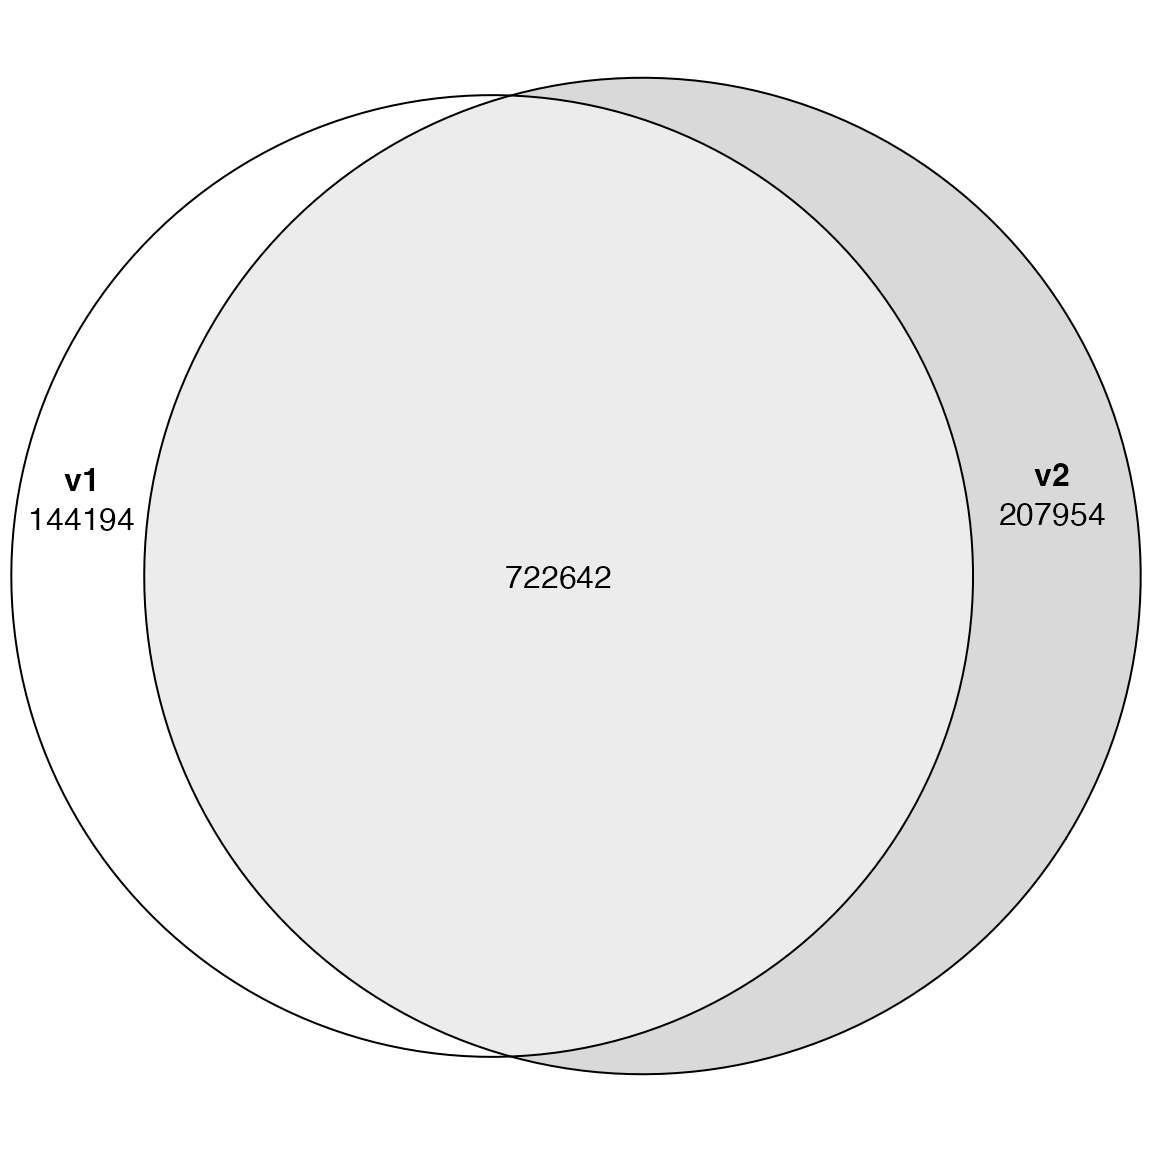
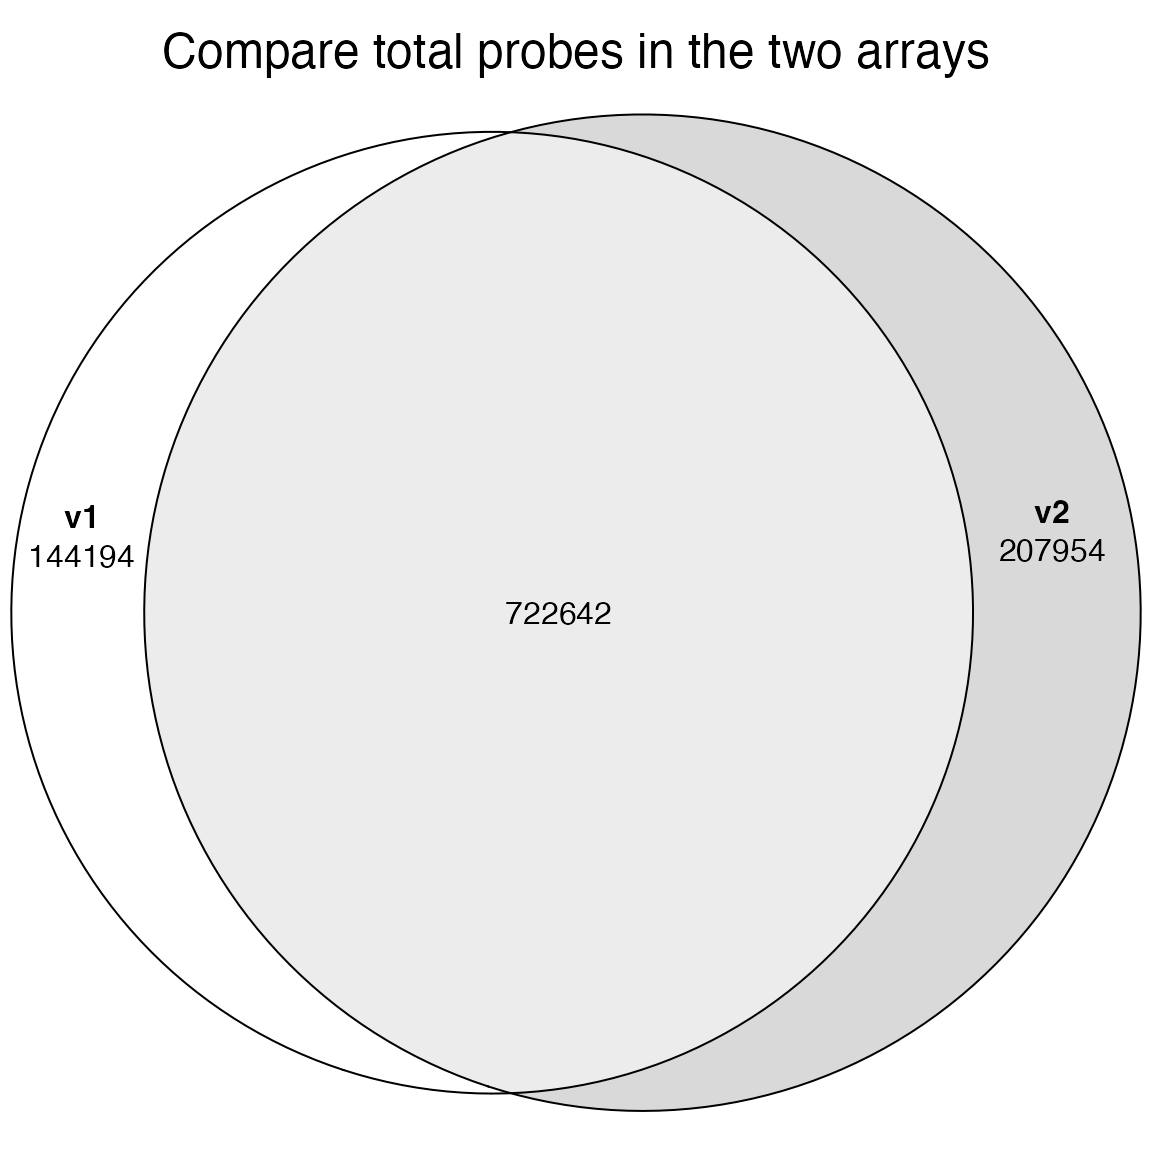
update vignette

diff --git a/docs/articles/IlluminaHumanMethylationEPICv2manifest.html b/docs/articles/IlluminaHumanMethylationEPICv2manifest.html
@@ -62,7 +62,7 @@
       <h1 data-toc-skip>Use of IlluminaHumanMethylationEPICv2manifest</h1>
                         <h4 data-toc-skip class="author">Zuguang Gu (<a href="mailto:z.gu@dkfz.de" class="email">z.gu@dkfz.de</a>)</h4>
             
-            <h4 data-toc-skip class="date">2023-03-18</h4>
+            <h4 data-toc-skip class="date">2023-03-19</h4>
       
       
       <div class="hidden name"><code>IlluminaHumanMethylationEPICv2manifest.Rmd</code></div>
@@ -105,15 +105,39 @@
 <p>Overlap of probes:</p>
 <div class="sourceCode" id="cb7"><pre class="downlit sourceCode r">
 <code class="sourceCode R"><span><span class="kw"><a href="https://rdrr.io/r/base/library.html" class="external-link">library</a></span><span class="op">(</span><span class="va"><a href="https://github.com/jolars/eulerr" class="external-link">eulerr</a></span><span class="op">)</span></span>
-<span><span class="fu"><a href="https://rdrr.io/r/graphics/plot.default.html" class="external-link">plot</a></span><span class="op">(</span><span class="fu"><a href="https://jolars.github.io/eulerr/reference/euler.html" class="external-link">euler</a></span><span class="op">(</span><span class="fu"><a href="https://rdrr.io/r/base/list.html" class="external-link">list</a></span><span class="op">(</span>v1 <span class="op">=</span> <span class="va">probe1</span>, v2 <span class="op">=</span> <span class="va">probe2</span><span class="op">)</span><span class="op">)</span>, quantities <span class="op">=</span> <span class="cn">TRUE</span><span class="op">)</span></span></code></pre></div>
+<span><span class="fu"><a href="https://rdrr.io/r/graphics/plot.default.html" class="external-link">plot</a></span><span class="op">(</span><span class="fu"><a href="https://jolars.github.io/eulerr/reference/euler.html" class="external-link">euler</a></span><span class="op">(</span><span class="fu"><a href="https://rdrr.io/r/base/list.html" class="external-link">list</a></span><span class="op">(</span>v1 <span class="op">=</span> <span class="va">probe1</span>, v2 <span class="op">=</span> <span class="va">probe2</span><span class="op">)</span><span class="op">)</span>, quantities <span class="op">=</span> <span class="cn">TRUE</span>,</span>
+<span>    main <span class="op">=</span> <span class="st">"Compare total probes in the two arrays"</span><span class="op">)</span></span></code></pre></div>
 <p><img src="IlluminaHumanMethylationEPICv2manifest_files/figure-html/unnamed-chunk-5-1.png" width="576" style="display: block; margin: auto;"></p>
+<p>We can also compare Type I and Type II probes in the two arrays.</p>
+<div class="sourceCode" id="cb8"><pre class="downlit sourceCode r">
+<code class="sourceCode R"><span><span class="va">TypeI_1</span> <span class="op">=</span> <span class="va">IlluminaHumanMethylationEPICmanifest</span><span class="op">@</span><span class="va">data</span><span class="op">$</span><span class="va">TypeI</span></span>
+<span><span class="va">TypeI_2</span> <span class="op">=</span> <span class="va">IlluminaHumanMethylationEPICv2manifest</span><span class="op">@</span><span class="va">data</span><span class="op">$</span><span class="va">TypeI</span></span>
+<span><span class="fu"><a href="https://rdrr.io/r/graphics/plot.default.html" class="external-link">plot</a></span><span class="op">(</span><span class="fu"><a href="https://jolars.github.io/eulerr/reference/euler.html" class="external-link">euler</a></span><span class="op">(</span><span class="fu"><a href="https://rdrr.io/r/base/list.html" class="external-link">list</a></span><span class="op">(</span>v1_TypeI <span class="op">=</span> <span class="fu"><a href="https://rdrr.io/r/base/unique.html" class="external-link">unique</a></span><span class="op">(</span><span class="va">TypeI_1</span><span class="op">$</span><span class="va">Name</span><span class="op">)</span>, v2_TypeI <span class="op">=</span> <span class="fu"><a href="https://rdrr.io/r/base/unique.html" class="external-link">unique</a></span><span class="op">(</span><span class="va">TypeI_2</span><span class="op">$</span><span class="va">Name</span><span class="op">)</span><span class="op">)</span><span class="op">)</span>, </span>
+<span>    quantities <span class="op">=</span> <span class="cn">TRUE</span>, main <span class="op">=</span> <span class="st">"Compare TypeI probes in the two arrays"</span><span class="op">)</span></span></code></pre></div>
+<p><img src="IlluminaHumanMethylationEPICv2manifest_files/figure-html/unnamed-chunk-6-1.png" width="576" style="display: block; margin: auto;"></p>
+<div class="sourceCode" id="cb9"><pre class="downlit sourceCode r">
+<code class="sourceCode R"><span><span class="va">TypeII_1</span> <span class="op">=</span> <span class="va">IlluminaHumanMethylationEPICmanifest</span><span class="op">@</span><span class="va">data</span><span class="op">$</span><span class="va">TypeII</span></span>
+<span><span class="va">TypeII_2</span> <span class="op">=</span> <span class="va">IlluminaHumanMethylationEPICv2manifest</span><span class="op">@</span><span class="va">data</span><span class="op">$</span><span class="va">TypeII</span></span>
+<span><span class="fu"><a href="https://rdrr.io/r/graphics/plot.default.html" class="external-link">plot</a></span><span class="op">(</span><span class="fu"><a href="https://jolars.github.io/eulerr/reference/euler.html" class="external-link">euler</a></span><span class="op">(</span><span class="fu"><a href="https://rdrr.io/r/base/list.html" class="external-link">list</a></span><span class="op">(</span>v1_TypeII <span class="op">=</span> <span class="fu"><a href="https://rdrr.io/r/base/unique.html" class="external-link">unique</a></span><span class="op">(</span><span class="va">TypeII_1</span><span class="op">$</span><span class="va">Name</span><span class="op">)</span>, v2_TypeII <span class="op">=</span> <span class="fu"><a href="https://rdrr.io/r/base/unique.html" class="external-link">unique</a></span><span class="op">(</span><span class="va">TypeII_2</span><span class="op">$</span><span class="va">Name</span><span class="op">)</span><span class="op">)</span><span class="op">)</span>, </span>
+<span>    quantities <span class="op">=</span> <span class="cn">TRUE</span>, main <span class="op">=</span> <span class="st">"Compare TypeII probes in the two arrays"</span><span class="op">)</span></span></code></pre></div>
+<p><img src="IlluminaHumanMethylationEPICv2manifest_files/figure-html/unnamed-chunk-6-2.png" width="576" style="display: block; margin: auto;"></p>
+<p>The next plot shows physical locations of TypeII probes on the array are not correlated in the two arrays.</p>
+<div class="sourceCode" id="cb10"><pre class="downlit sourceCode r">
+<code class="sourceCode R"><span><span class="va">x1</span> <span class="op">=</span> <span class="fu"><a href="https://rdrr.io/r/base/numeric.html" class="external-link">as.numeric</a></span><span class="op">(</span><span class="va">TypeII_1</span><span class="op">$</span><span class="va">AddressA</span><span class="op">)</span>; <span class="fu"><a href="https://rdrr.io/r/base/names.html" class="external-link">names</a></span><span class="op">(</span><span class="va">x1</span><span class="op">)</span> <span class="op">=</span> <span class="va">TypeII_1</span><span class="op">$</span><span class="va">Name</span></span>
+<span><span class="va">x2</span> <span class="op">=</span> <span class="fu"><a href="https://rdrr.io/r/base/numeric.html" class="external-link">as.numeric</a></span><span class="op">(</span><span class="va">TypeII_2</span><span class="op">$</span><span class="va">AddressA</span><span class="op">)</span>; <span class="fu"><a href="https://rdrr.io/r/base/names.html" class="external-link">names</a></span><span class="op">(</span><span class="va">x2</span><span class="op">)</span> <span class="op">=</span> <span class="va">TypeII_2</span><span class="op">$</span><span class="va">Name</span></span>
+<span><span class="va">cn</span> <span class="op">=</span> <span class="fu"><a href="https://rdrr.io/r/base/sets.html" class="external-link">intersect</a></span><span class="op">(</span><span class="fu"><a href="https://rdrr.io/r/base/names.html" class="external-link">names</a></span><span class="op">(</span><span class="va">x1</span><span class="op">)</span>, <span class="fu"><a href="https://rdrr.io/r/base/names.html" class="external-link">names</a></span><span class="op">(</span><span class="va">x2</span><span class="op">)</span><span class="op">)</span></span>
+<span><span class="va">x1</span> <span class="op">=</span> <span class="va">x1</span><span class="op">[</span><span class="va">cn</span><span class="op">]</span></span>
+<span><span class="va">x2</span> <span class="op">=</span> <span class="va">x2</span><span class="op">[</span><span class="va">cn</span><span class="op">]</span></span>
+<span><span class="fu"><a href="https://rdrr.io/r/graphics/plot.default.html" class="external-link">plot</a></span><span class="op">(</span><span class="va">x1</span>, <span class="va">x2</span>, pch <span class="op">=</span> <span class="st">"."</span>, xlab <span class="op">=</span> <span class="st">"EPIC array v1.0"</span>, ylab <span class="op">=</span> <span class="st">"EPIC array v2.0"</span>,</span>
+<span>    main <span class="op">=</span> <span class="st">"Addresses of same probes in the two arrays"</span><span class="op">)</span></span></code></pre></div>
+<p><img src="IlluminaHumanMethylationEPICv2manifest_files/figure-html/unnamed-chunk-7-1.png" width="672" style="display: block; margin: auto;"></p>
 </div>
 <div class="section level2">
 <h2 id="what-if-using-the-wrong-array-version">What if using the wrong array version?<a class="anchor" aria-label="anchor" href="#what-if-using-the-wrong-array-version"></a>
 </h2>
 <p>We get the demo dataset of EPIC array v2.0 from the following link: <a href="https://support.illumina.com/array/array_kits/infinium-methylationepic-beadchip-kit/downloads.html" class="external-link uri">https://support.illumina.com/array/array_kits/infinium-methylationepic-beadchip-kit/downloads.html</a>, with the name “Infinium MethylationEPIC v2.0 Demo Data Set (iScan)”.</p>
 <p>We randomly picked one pair of files. To create this vignette dynamically, we hosted the files on GitHub and now we download them and put them in a temporary folder. <code>206891110001_R01C01.zip</code> contains one <code>*_Grn.idat</code> and corresponding <code>*_Red.idat</code> file.</p>
-<div class="sourceCode" id="cb8"><pre class="downlit sourceCode r">
+<div class="sourceCode" id="cb11"><pre class="downlit sourceCode r">
 <code class="sourceCode R"><span><span class="va">tempdir</span> <span class="op">=</span> <span class="fu"><a href="https://rdrr.io/r/base/tempfile.html" class="external-link">tempdir</a></span><span class="op">(</span><span class="op">)</span></span>
 <span><span class="va">datadir</span> <span class="op">=</span> <span class="fu"><a href="https://rdrr.io/r/base/paste.html" class="external-link">paste0</a></span><span class="op">(</span><span class="va">tempdir</span>, <span class="st">"/206891110001"</span><span class="op">)</span></span>
 <span><span class="fu"><a href="https://rdrr.io/r/base/files2.html" class="external-link">dir.create</a></span><span class="op">(</span><span class="va">datadir</span>, showWarnings <span class="op">=</span> <span class="cn">FALSE</span><span class="op">)</span></span>
@@ -124,7 +148,7 @@
 <span></span>
 <span><span class="fu"><a href="https://rdrr.io/r/utils/unzip.html" class="external-link">unzip</a></span><span class="op">(</span><span class="va">local</span>, exdir <span class="op">=</span> <span class="va">datadir</span><span class="op">)</span></span></code></pre></div>
 <p>Next we use <code><a href="https://rdrr.io/pkg/minfi/man/read.metharray.exp.html" class="external-link">minfi::read.metharray.exp()</a></code> to import the original data.</p>
-<div class="sourceCode" id="cb9"><pre class="downlit sourceCode r">
+<div class="sourceCode" id="cb12"><pre class="downlit sourceCode r">
 <code class="sourceCode R"><span><span class="kw"><a href="https://rdrr.io/r/base/library.html" class="external-link">library</a></span><span class="op">(</span><span class="va"><a href="https://github.com/hansenlab/minfi" class="external-link">minfi</a></span><span class="op">)</span></span>
 <span><span class="va">RGset</span> <span class="op">=</span> <span class="fu"><a href="https://rdrr.io/pkg/minfi/man/read.metharray.exp.html" class="external-link">read.metharray.exp</a></span><span class="op">(</span><span class="va">datadir</span><span class="op">)</span></span>
 <span><span class="va">RGset</span></span></code></pre></div>
@@ -141,7 +165,7 @@
 <span><span class="co">##   annotation: Unknown</span></span></code></pre>
 <p>We can see there are more than 1 million probes. Note <strong>minfi</strong> cannot automatically detect the array type of this data (“array” is assigned to “Unknown”).</p>
 <p>If we manually assign the EPIC array v1.0 to <code>RGset</code> and perform preprocessing:</p>
-<div class="sourceCode" id="cb11"><pre class="downlit sourceCode r">
+<div class="sourceCode" id="cb14"><pre class="downlit sourceCode r">
 <code class="sourceCode R"><span><span class="fu"><a href="https://rdrr.io/pkg/BiocGenerics/man/annotation.html" class="external-link">annotation</a></span><span class="op">(</span><span class="va">RGset</span><span class="op">)</span><span class="op">[</span><span class="st">"array"</span><span class="op">]</span> <span class="op">=</span> <span class="st">"IlluminaHumanMethylationEPIC"</span></span>
 <span><span class="fu"><a href="https://rdrr.io/pkg/minfi/man/preprocessRaw.html" class="external-link">preprocessRaw</a></span><span class="op">(</span><span class="va">RGset</span><span class="op">)</span></span></code></pre></div>
 <pre><code><span><span class="co">## class: MethylSet </span></span>
@@ -161,7 +185,7 @@
 <span><span class="co">##   Manifest version: 0.3.0</span></span></code></pre>
 <p>Only around 100K probes remain, which is definitely wrong.</p>
 <p>While if we choose the correct v2.0 array type:</p>
-<div class="sourceCode" id="cb13"><pre class="downlit sourceCode r">
+<div class="sourceCode" id="cb16"><pre class="downlit sourceCode r">
 <code class="sourceCode R"><span><span class="fu"><a href="https://rdrr.io/pkg/BiocGenerics/man/annotation.html" class="external-link">annotation</a></span><span class="op">(</span><span class="va">RGset</span><span class="op">)</span><span class="op">[</span><span class="st">"array"</span><span class="op">]</span> <span class="op">=</span> <span class="st">"IlluminaHumanMethylationEPICv2"</span></span>
 <span><span class="fu"><a href="https://rdrr.io/pkg/minfi/man/preprocessRaw.html" class="external-link">preprocessRaw</a></span><span class="op">(</span><span class="va">RGset</span><span class="op">)</span></span></code></pre></div>
 <pre><code><span><span class="co">## class: MethylSet </span></span>
@@ -185,7 +209,7 @@
 <div class="section level2">
 <h2 id="session-info">Session info<a class="anchor" aria-label="anchor" href="#session-info"></a>
 </h2>
-<div class="sourceCode" id="cb15"><pre class="downlit sourceCode r">
+<div class="sourceCode" id="cb18"><pre class="downlit sourceCode r">
 <code class="sourceCode R"><span><span class="fu"><a href="https://rdrr.io/r/utils/sessionInfo.html" class="external-link">sessionInfo</a></span><span class="op">(</span><span class="op">)</span></span></code></pre></div>
 <pre><code><span><span class="co">## R version 4.2.0 (2022-04-22)</span></span>
 <span><span class="co">## Platform: x86_64-apple-darwin17.0 (64-bit)</span></span>
